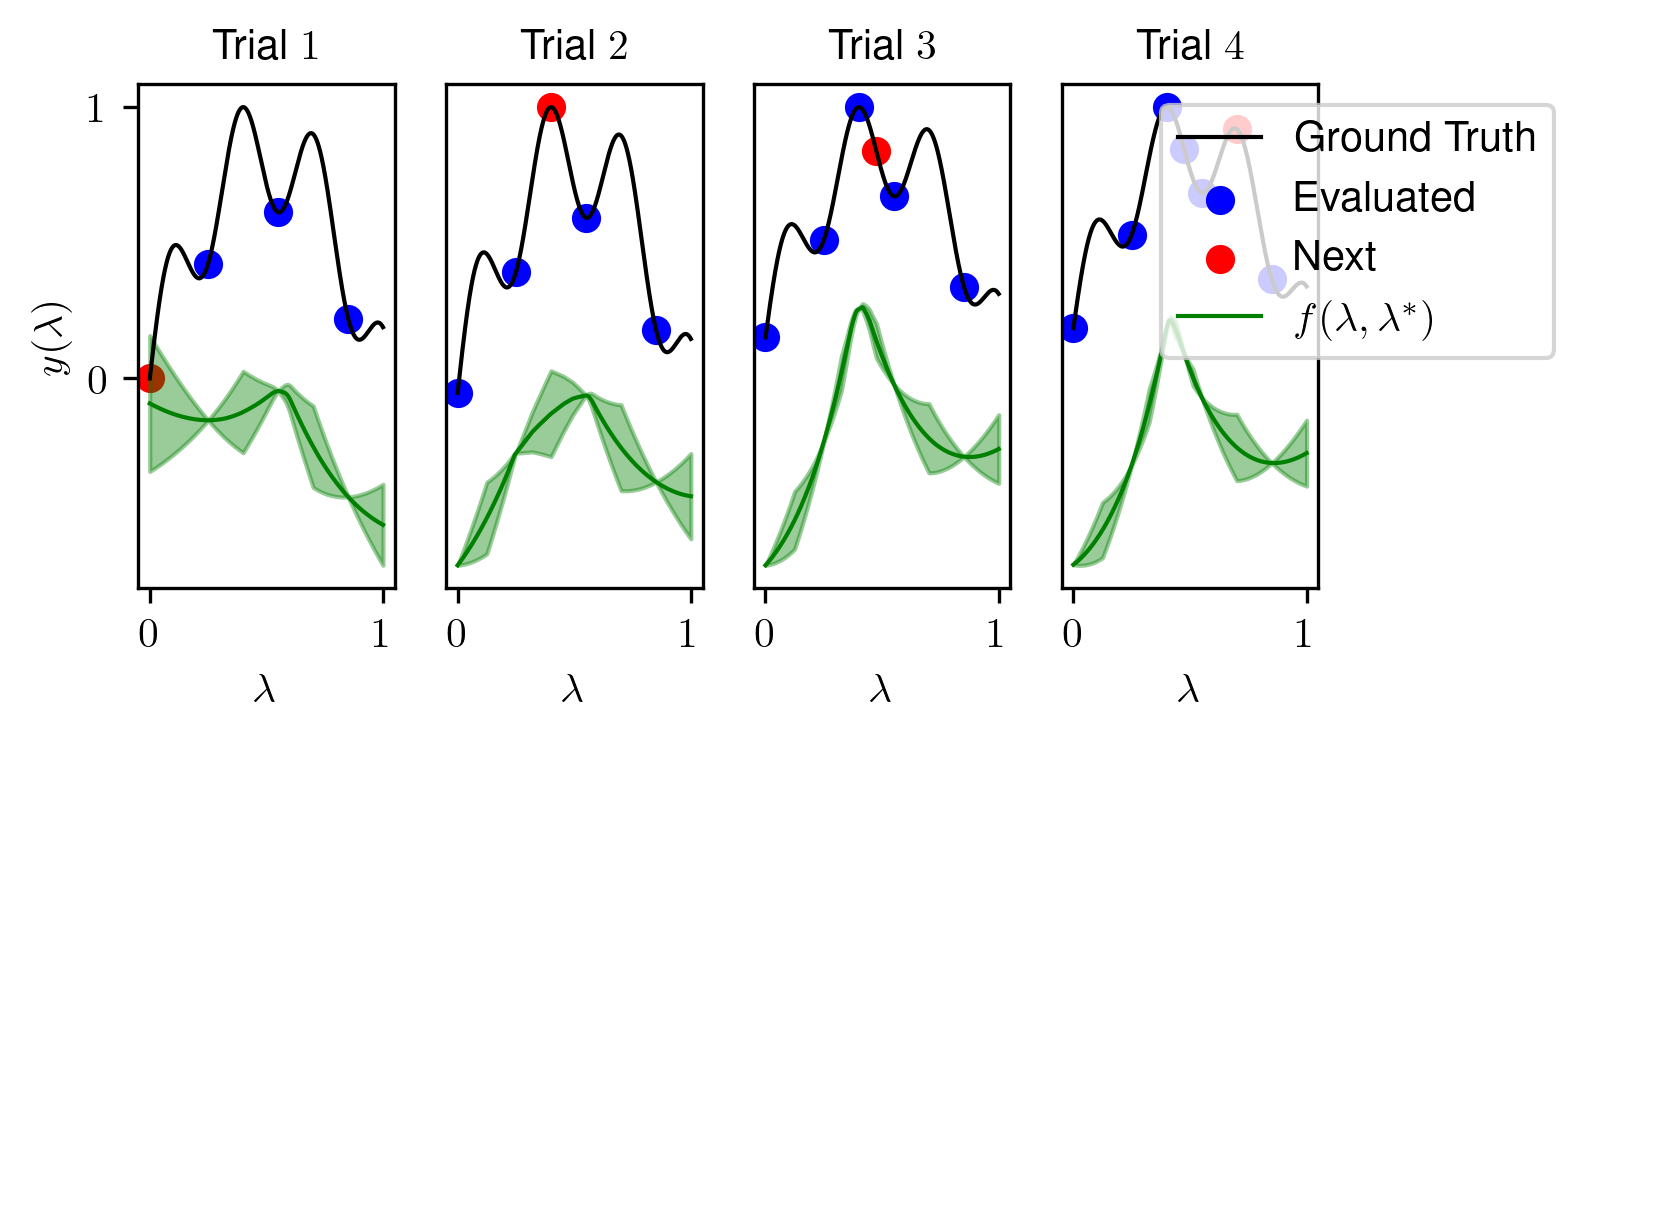
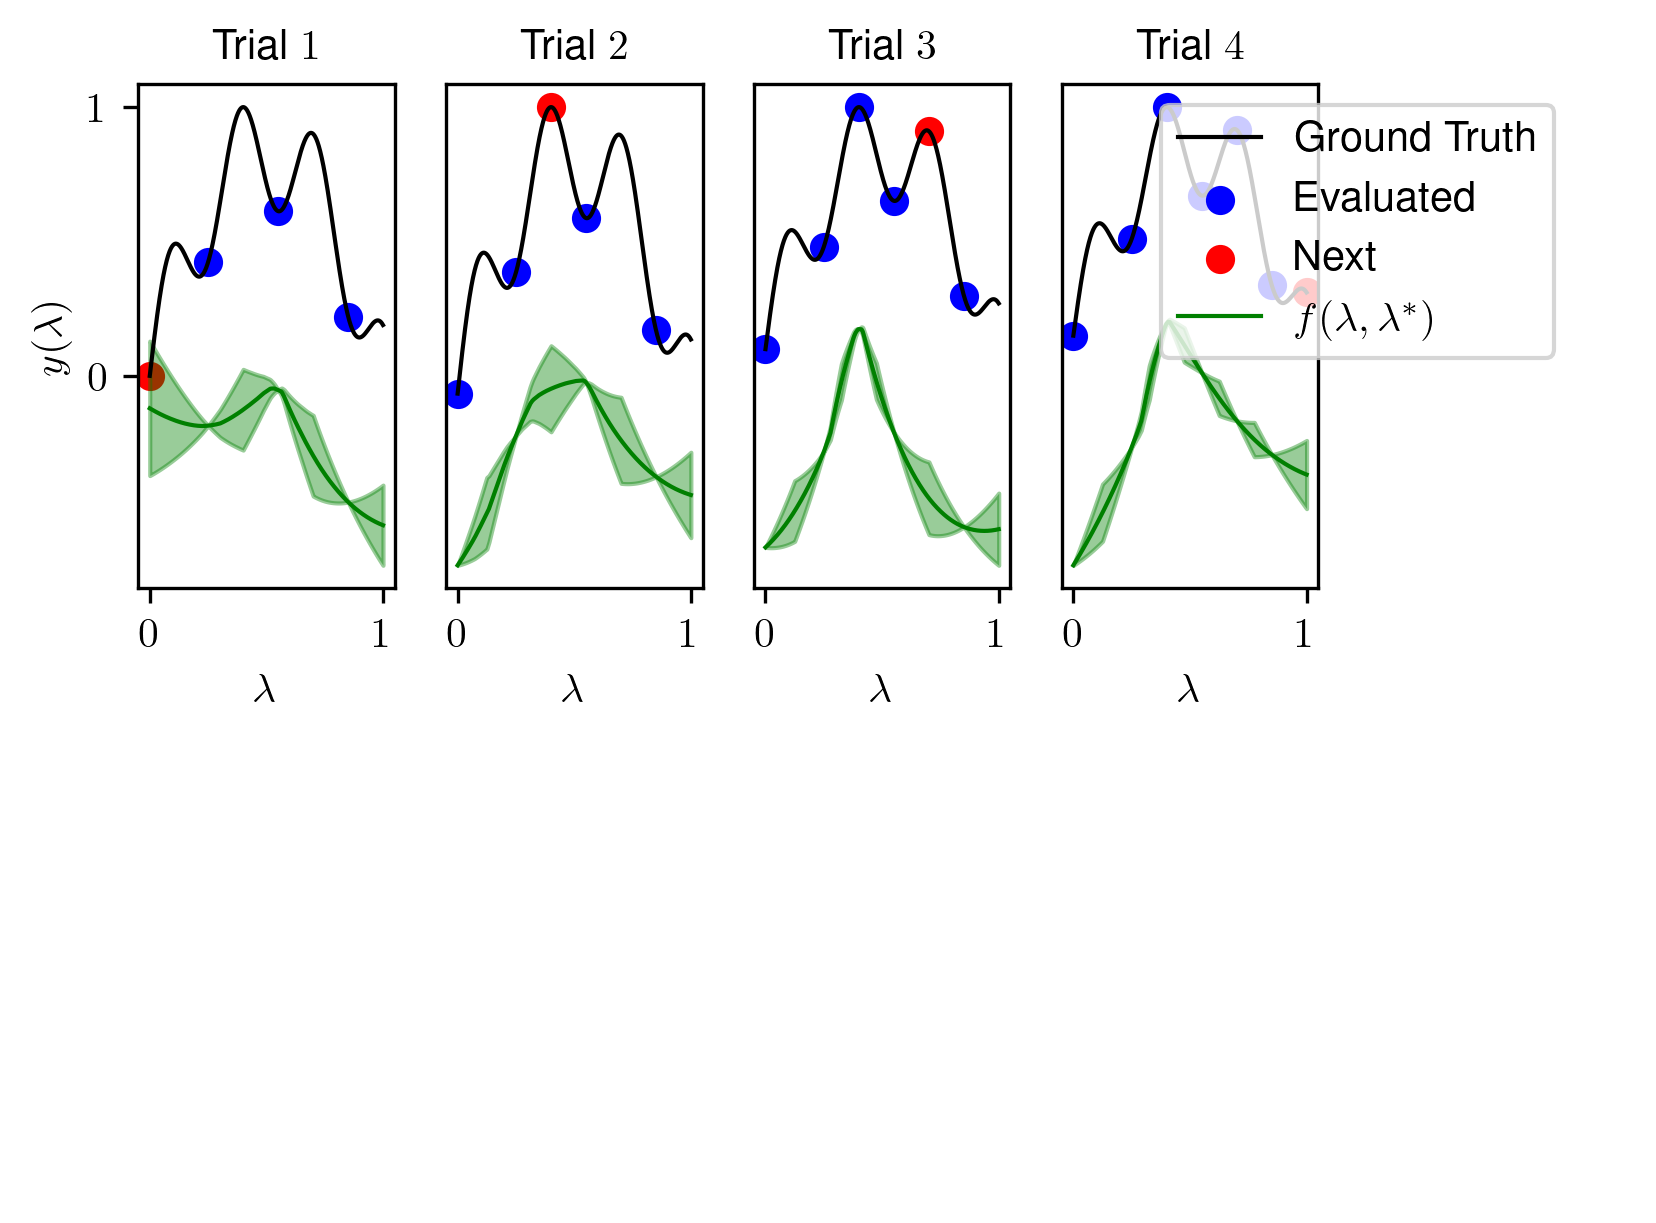
working version

diff --git a/methods/nn_bo_synth.py b/methods/nn_bo_synth.py
@@ -17,8 +17,8 @@ class NeuralNetworkBOSynth():
         # the hyper-hyperparameter configurations of the method
         if config is None:
             self.config = {'is_rank_version': False, 'eta': 0.01, 'optim_iters': 300, 'train_batch_size': 30,
-                           'acquisition_batch_size': 1000, 'log_iters': 300, 'hidden_layers_units': [64, 64],
-                           'use_batch_norm': False, 'use_dropout': False, 'dropout_rate': 0.1, 'beta': 10.0}
+                           'acquisition_batch_size': 1000, 'log_iters': 300, 'hidden_layers_units': [32, 32, 32],
+                           'use_batch_norm': False, 'use_dropout': False, 'dropout_rate': 0.0, 'beta': 5.0}
         else:
             self.config = config
 

diff --git a/poc/main_poc.py b/poc/main_poc.py
@@ -17,8 +17,8 @@ initial_design_idxs = [250, 550, 850]
 
 # create an smbo method
 config = {'is_rank_version': True, 'eta': 0.01, 'optim_iters': 300, 'train_batch_size': 30,
-          'acquisition_batch_size': 1000, 'log_iters': 300, 'hidden_layers_units': [64, 64],
-          'use_batch_norm': False, 'use_dropout': False, 'dropout_rate': 0.1, 'beta': 10.0}
+          'acquisition_batch_size': 1000, 'log_iters': 300, 'hidden_layers_units': [32, 32, 32],
+          'use_batch_norm': False, 'use_dropout': False, 'dropout_rate': 0.1, 'beta': 5.0}
 
 nn_bo = NeuralNetworkBOSynth(config=config)
 
